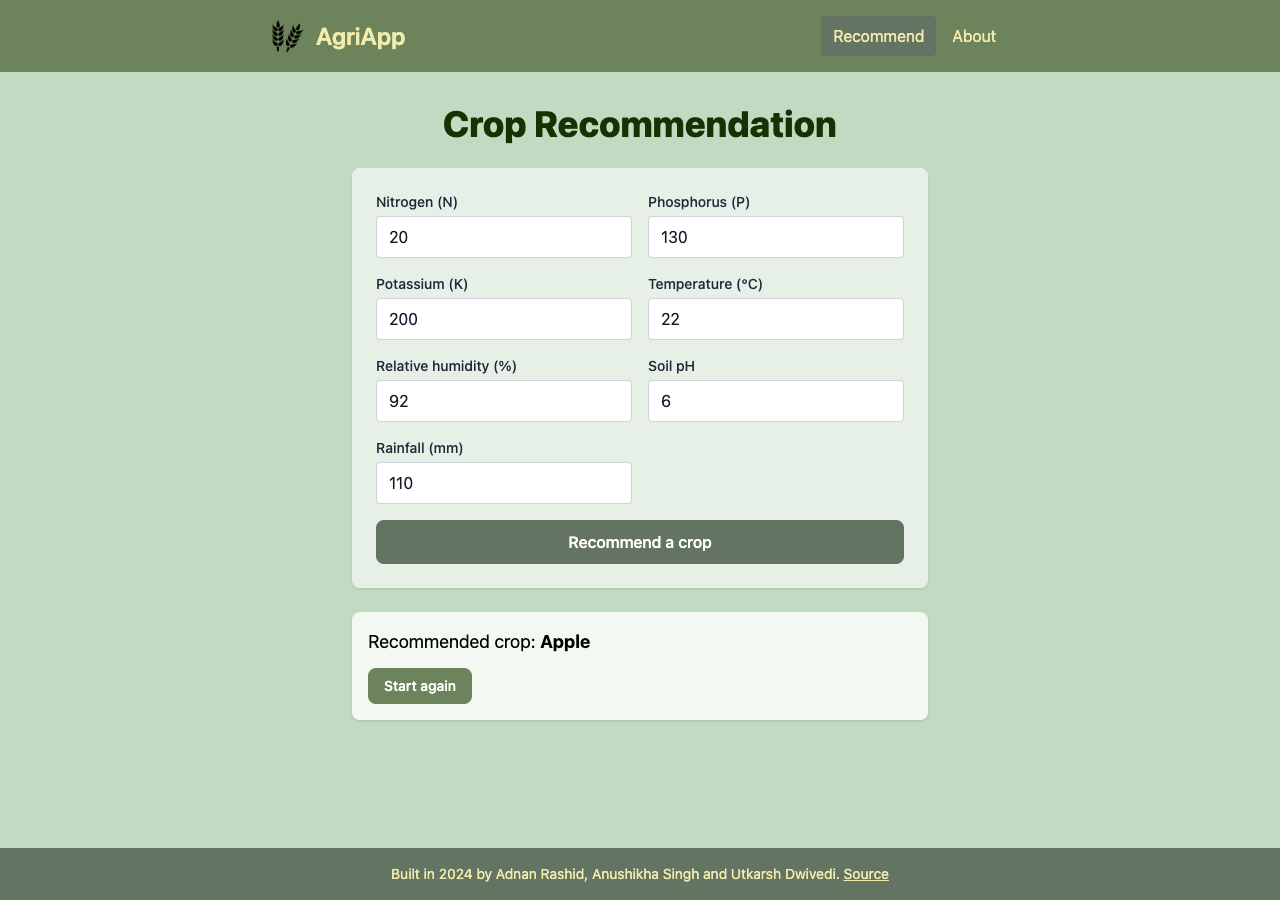
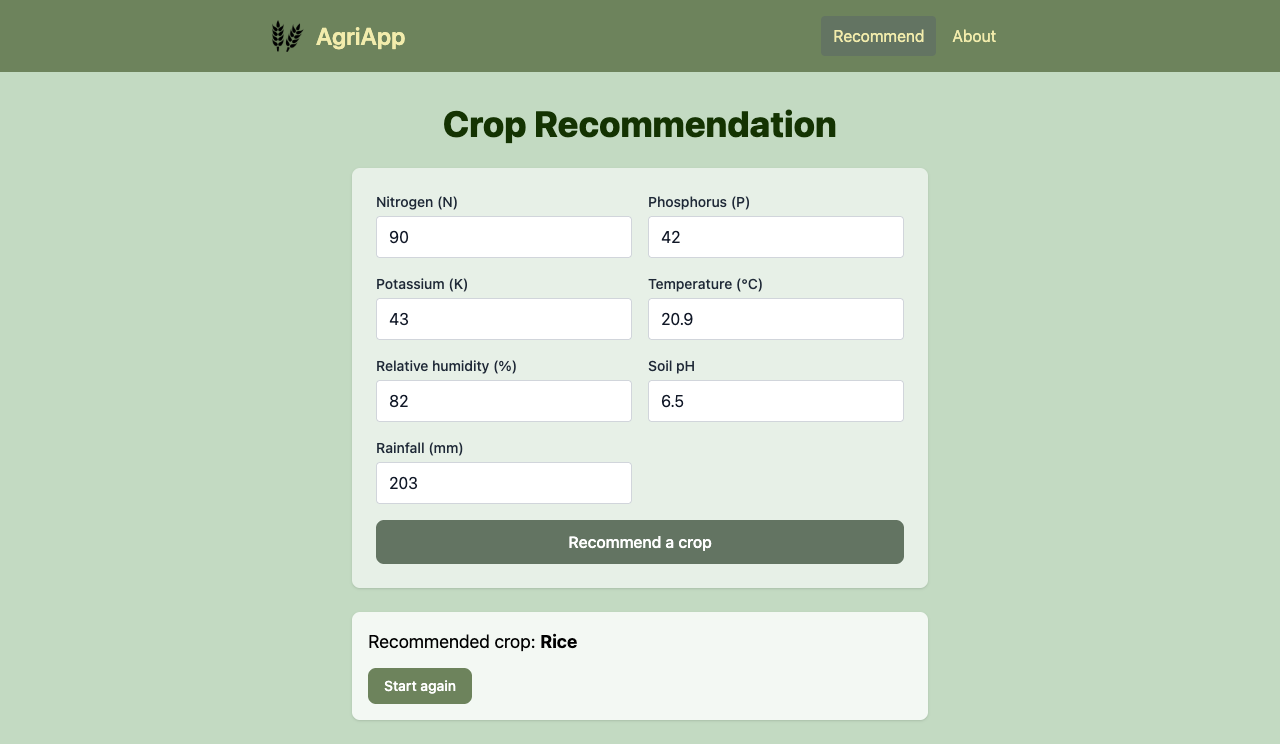
Restructure README: badges, live demo, diagram, quick start, model card, limitations, licence

Changed region(s): [[0.0, 0.3091, 1.0, 1.0], [0.0, 0.0309, 1.0, 0.2782]]

diff --git a/README.md b/README.md
@@ -1,31 +1,64 @@
-# AgriApp: crop recommendation
+# AgriApp
 
-You enter seven soil and weather values (nitrogen, phosphorus, potassium, temperature, humidity, soil pH,
-rainfall) and AgriApp suggests one of 22 crops. It's a static React + Vite site: the model runs in your
-browser, so there's no backend, no server to wake up and no cold start. Your inputs never leave the page.
+Suggests a crop from seven soil and weather readings, entirely in your browser.
 
-This was a 2024 college group project. It was cleaned up later: features that never worked (sign-in, a
-cultivation roadmap, weather analysis, SMS OTP) were removed rather than finished. See [AUDIT.md](AUDIT.md)
-for what was wrong and how each finding was handled.
+[![CI](https://github.com/Dakuaisu/Agriculturewebsite/actions/workflows/ci.yml/badge.svg)](https://github.com/Dakuaisu/Agriculturewebsite/actions/workflows/ci.yml)
+[![Deploy](https://github.com/Dakuaisu/Agriculturewebsite/actions/workflows/pages.yml/badge.svg)](https://github.com/Dakuaisu/Agriculturewebsite/actions/workflows/pages.yml)
+[![Live demo](https://img.shields.io/badge/demo-live-6d835c)](https://dakuaisu.github.io/Agriculturewebsite/)
+[![License: MIT](https://img.shields.io/badge/license-MIT-blue)](LICENSE)
 
-![Screenshot of the crop recommendation form showing an "Apple" result](docs/screenshot.png)
+**Live demo:** https://dakuaisu.github.io/Agriculturewebsite/
 
-**Live:** not deployed yet. Once the step in [Deploy](#deploy) is done, the site will be at
-https://dakuaisu.github.io/Agriculturewebsite/.
+![AgriApp form with sample soil and weather values and the result "Recommended crop: Rice"](docs/screenshot.png)
+<sub>The form after entering a sample reading. The model recommends rice.</sub>
 
-## Run it locally
+## What it does
+
+You enter nitrogen, phosphorus, potassium, temperature, humidity, soil pH and rainfall. AgriApp suggests
+one of 22 crops. It's a static React site, and the model runs in the page.
+
+- **Runs entirely in the browser.** A Gaussian naive Bayes model is shipped as a small JSON file.
+- **No backend.** No server to host, nothing to wake up, no cold start.
+- **Inputs never leave the page.** Predicting makes no network requests.
+- **Input validation.** Each value must lie within the range seen in the training data.
+- **Exact parity with scikit-learn.** A test checks that the browser returns scikit-learn's label on all
+  2,200 dataset rows.
+
+## How it works
+
+```mermaid
+flowchart LR
+    data[(data/Crop_recommendation.csv)] --> train[train.py]
+    train --> model[model.json]
+    train --> preds[sklearn_predictions.json]
+    model --> predictor[predict.js<br/>in the browser]
+    predictor -. parity test .- preds
+```
+
+`train.py` fits the model with scikit-learn and exports the parameters it uses at predict time. It also
+writes scikit-learn's prediction for every row. `predict.js` repeats the same log-probability calculation
+in JavaScript, and `predict.test.js` checks that its answers match exactly.
+
+## Tech stack
+
+| Part | Tools |
+|---|---|
+| Frontend | React 18, React Router 7, Tailwind CSS 4, Vite 8 |
+| Model training | Python 3.12, scikit-learn 1.9.1, pandas |
+| Checks | Vitest, ESLint, ruff, GitHub Actions |
+| Hosting | GitHub Pages |
+
+## Quick start
+
+Run the site locally (Node 22):
 
 ```sh
 cd AgricultureApp
 npm ci
-npm run dev
+npm run dev            # http://localhost:5173
 ```
 
-Then open http://localhost:5173. Node 22 is what CI uses.
-
-## Retrain the model
-
-Python 3.12:
+Retrain the model (Python 3.12):
 
 ```sh
 cd training
@@ -34,64 +67,78 @@ pip install -r requirements.txt
 python train.py
 ```
 
-This rebuilds, from `data/Crop_recommendation.csv`:
-
-- `model.json`: the parameters the browser uses to predict
-- `sklearn_predictions.json`: scikit-learn's prediction for every dataset row, used by the parity test
-- `feature_ranges.json`: the input limits used by the form
-- [`evaluation.md`](training/evaluation.md): accuracy, baselines and confusion matrix
-
-Training is deterministic.
-
-## Checks
-
-These are the same checks CI runs:
+Run the checks that CI runs:
 
 ```sh
 cd training && ruff check . && python train.py && git diff --exit-code -- .
 cd AgricultureApp && npm run lint && npm test && npm run build
 ```
 
-- **Retrain and export checks:** retraining must reproduce the committed report, ranges, `model.json` and
-  predictions exactly.
-- **Parity test** (`src/predict.test.js`): the JS predictor must return exactly scikit-learn's label on all
-  2,200 dataset rows.
+Training is deterministic. CI fails if retraining changes the committed report, ranges, `model.json` or
+predictions, or if the JS predictor disagrees with scikit-learn on any row.
+
+## Project structure
+
+```text
+AgricultureApp/              React + Vite site
+  src/predict.js             naive Bayes prediction in JavaScript
+  src/predict.test.js        parity test against scikit-learn
+  src/validation.js          input checks using feature_ranges.json
+  src/Croprecc.jsx           the form
+  src/About.jsx              about page
+training/
+  train.py                   trains, evaluates and exports the model
+  data/                      dataset and its licence notice
+  model.json                 parameters used by the browser
+  sklearn_predictions.json   scikit-learn's label for every dataset row
+  feature_ranges.json        allowed input ranges
+  evaluation.md              accuracy, baselines, confusion matrix
+.github/workflows/           CI and GitHub Pages deploy
+AUDIT.md                     findings from the 2026 cleanup
+```
 
 ## Model card
 
 - **Data:** [Crop Recommendation Dataset](https://www.kaggle.com/datasets/atharvaingle/crop-recommendation-dataset)
-  by Atharva Ingle on Kaggle, Apache 2.0 (as listed in its Kaggle metadata). It has 2,200 rows: 22 crops ×
-  100 rows each, with no missing values or duplicates. Kaggle says it was "built by augmenting" Indian
-  rainfall, climate and fertiliser data. The augmentation method isn't documented, so treat the data as
-  partly synthetic. A copy and its notice are in [`training/data/`](training/data/NOTICE.md).
+  by Atharva Ingle (Kaggle, Apache 2.0 per its Kaggle metadata). It has 2,200 rows: 22 crops × 100 rows,
+  with no missing values or duplicates. Kaggle says it was "built by augmenting" Indian rainfall, climate
+  and fertiliser data, without documenting the method, so treat it as partly synthetic. A copy and its
+  notice are in [`training/data/`](training/data/NOTICE.md).
 - **Method:** scikit-learn `GaussianNB` with default settings, trained on a stratified 80% split with
-  seed 42, with no preprocessing. The model is just a prior, a mean and a variance per crop and feature
-  (`var` already includes sklearn's smoothing term). `src/predict.js` computes the same log-probabilities
-  and picks the highest, as sklearn does.
-- **Why naive Bayes:** simplicity, not accuracy. It's small and easy to run in a browser. It makes 2 test
-  errors against 5 for the 10 bagged decision trees the project used before. A gap of a few test errors
-  isn't evidence that it's the better model.
-- **Inputs:** each value must lie within the range seen in the data (N 0–140, P 5–145, K 5–205,
-  temperature 8–44 °C, humidity 14–100 %, pH 3.5–10, rainfall 20–299 mm). Outside those ranges the model
-  would be guessing, so the form rejects them.
+  seed 42, with no preprocessing. The model is a prior, a mean and a variance per crop and feature (`var`
+  already includes sklearn's smoothing term).
+- **Why naive Bayes:** simplicity, not accuracy. It makes 2 test errors against 5 for the 10 bagged
+  decision trees used before. A gap of a few test errors isn't evidence that it's the better model.
+- **Inputs:** N 0–140, P 5–145, K 5–205, temperature 8–44 °C, humidity 14–100 %, pH 3.5–10, rainfall
+  20–299 mm. These are the ranges seen in the data, and the form rejects anything outside them.
 - **Accuracy:** 99.5% on the 440 held-out rows (438 correct). Both errors are rice predicted as jute.
-  5-fold cross-validation gives 99.5% (std 0.2%). The full confusion matrix is in
+  5-fold cross-validation gives 99.5% (std 0.2%). Full confusion matrix:
   [`evaluation.md`](training/evaluation.md).
-- **Caveat:** this score reflects an easy dataset, not a strong model. On the same split, bagged decision
-  trees score 98.9%, a single decision tree 98.0%, and a majority-class baseline 4.5%. A model that treats
-  each crop as one Gaussian blob scoring this high means each crop forms a tight, mostly separate cluster.
-  That is consistent with the data being generated per crop rather than collected from real farms. Nothing
-  here has been validated against real fields; don't use it for agronomic decisions.
+- **Caveat:** on the same split, bagged decision trees score 98.9%, a single decision tree 98.0%, and a
+  majority-class baseline 4.5%. A model that treats each crop as one Gaussian blob scoring this high means
+  each crop forms a tight, mostly separate cluster. That is consistent with data generated per crop rather
+  than collected from real farms.
 - **History:** the model originally committed in 2024 was paired with scalers fitted on a single row. As
   deployed, it scored 9.1% on this dataset and only ever answered Orange or Apple (AUDIT.md F02).
 
-## Deploy
+## Limitations
 
-In the repo settings, set Pages → Source to "GitHub Actions". Each push to `main` then builds the site and
-deploys it with `.github/workflows/pages.yml`. Nothing else needs hosting.
+- The high accuracy reflects an easy dataset, not a strong model.
+- Nothing here has been validated against real fields.
+- Don't use it for agronomic decisions.
+
+## Project history
+
+AgriApp started as a 2024 college group project. It was cleaned up in 2026: broken features were removed
+and the model was rebuilt and tested, as recorded in [AUDIT.md](AUDIT.md).
 
 ## Authors
 
 - Adnan Rashid
 - Anushikha Singh
 - Utkarsh Dwivedi
+
+## License
+
+The code is released under the [MIT License](LICENSE). The dataset is licensed separately under
+Apache 2.0; see [`training/data/NOTICE.md`](training/data/NOTICE.md).
